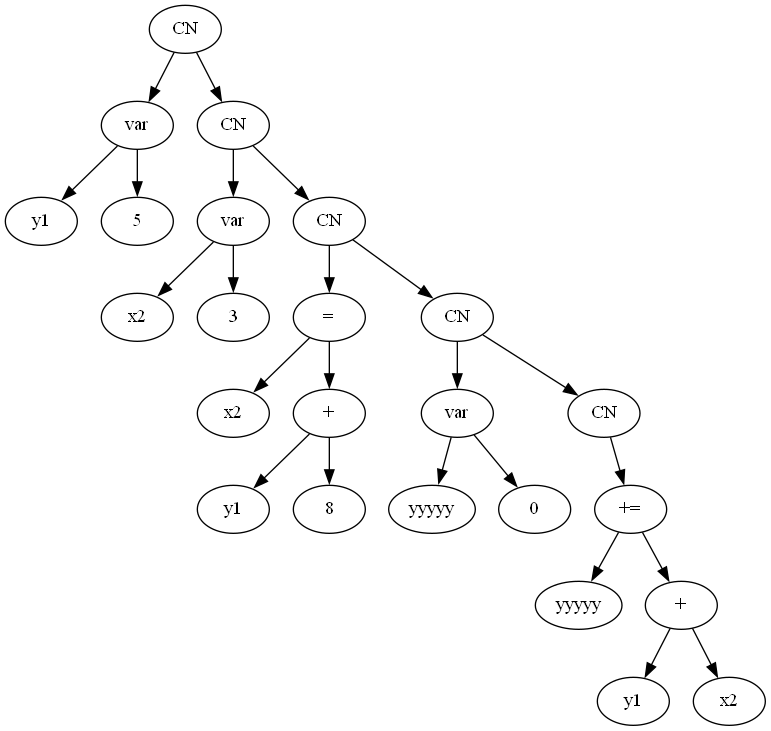
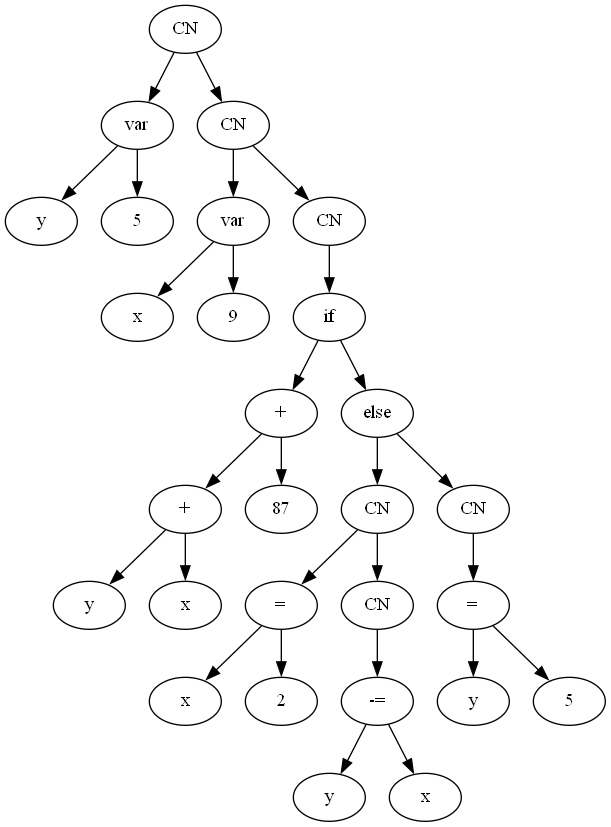
add condition in grammar

diff --git a/src/back_end.cpp b/src/back_end.cpp
@@ -134,12 +134,11 @@ Node *get_grammar(Tokenizer *tokens) {
 
     Node *node = get_type(tokens);
 
-    // assert(tokens->size == tokens->capacity);
+    assert(tokens->size == tokens->capacity);
 
     return node;
 }
 
-// Node *get_connect(Tokenizer *to)
 Node *get_type(Tokenizer *tokens) {
     
     Node *node = NULL;
@@ -151,12 +150,14 @@ Node *get_type(Tokenizer *tokens) {
     } else if (TOKEN_TYPE(TP_OPERATOR) && TOKEN_OP(OP_VAR)) {
         node_l = ger_var_declaration(tokens);
                 // декларация переменных 
-    } 
-
-    for (int i = tokens->size; i < tokens->capacity; i++) {
-        printf("%d [\"%s\"] {%d} ", tokens->array[i].type, tokens->array[i].elem, tokens->array[i].oper);
+    } else if (TOKEN_TYPE(TP_OPERATOR) && TOKEN_OP(OP_IF)) {
+        node_l = get_condition(tokens);
     }
-    printf("\n");
+
+    // for (int i = tokens->size; i < tokens->capacity; i++) {
+    //     printf("%d [\"%s\"] {%d} ", tokens->array[i].type, tokens->array[i].elem, tokens->array[i].oper);
+    // }
+    // printf("\n");
 
     // node_l = create_node(TP_OPERATOR, OP_CONNECT, node_l, node);
 
@@ -168,6 +169,73 @@ Node *get_type(Tokenizer *tokens) {
 
     return node_l;
 
+}
+
+Node *get_condition(Tokenizer *tokens) {
+
+    Node *node = NULL;
+    Node *node_l = NULL;
+    Node *node_r = NULL;
+
+    Node *node_l_body = NULL;
+    Node *node_r_body = NULL;
+
+    if (TOKEN_TYPE(TP_OPERATOR) && TOKEN_OP(OP_IF)) {
+
+        // for (int i = tokens->size; i < tokens->capacity; i++) {
+        //     printf("%d [\"%s\"] {%d} ", tokens->array[i].type, tokens->array[i].elem, tokens->array[i].oper);
+        // }
+        // printf("\n");
+
+        tokens->size++;
+        assert(tokens->array[tokens->size++].oper == OP_LEFT_BRACKET && "sintax error: you forgot left bracket in oper IF");
+        node_l = get_add_sub(tokens);
+
+        assert(tokens->array[tokens->size].oper == OP_RIGHT_BRACKET && "sintax error: you forgot right bracket in oper IF");
+        tokens->size++;
+
+        node_l_body = get_body(tokens);
+        // printf("\n after_body\n");
+
+        // for (int i = tokens->size; i < tokens->capacity; i++) {
+        //     printf("%d [\"%s\"] {%d} ", tokens->array[i].type, tokens->array[i].elem, tokens->array[i].oper);
+        // }
+        // printf("\n");
+
+        if (TOKEN_TYPE(TP_OPERATOR) && TOKEN_OP(OP_ELSE)) {
+            tokens->size++;
+            node_r_body = get_body(tokens);
+        }
+
+        if (node_r_body) {
+            node_r = create_node(TP_OPERATOR, OP_ELSE, node_l_body, node_r_body);
+            node_l = create_node(TP_OPERATOR, OP_IF, node_l, node_r);
+        } else {
+            node_l = create_node(TP_OPERATOR, OP_IF, node_l, node_l_body);
+        }
+
+
+        node = CN(node_l, get_type(tokens));
+
+    }
+
+
+    return node;
+}
+Node *get_body(Tokenizer *tokens) {
+    Node *node = NULL;
+
+    if (TOKEN_TYPE(TP_OPERATOR) && TOKEN_OP(OP_LEFT_FIGURE_BRACKET)) {
+
+        tokens->size++;
+        node = get_type(tokens);
+
+        assert(tokens->array[tokens->size].oper == OP_RIGHT_FIGURE_BRACKET && "sintax erorr: you forgot } in body");
+        tokens->size++;
+
+    }
+
+    return node;
 }
 
 Node *ger_var_declaration(Tokenizer *tokens) {

diff --git a/include/DSL.hpp b/include/DSL.hpp
@@ -20,7 +20,9 @@
 #define DEG(node_l, node_r)   create_node(TP_OPERATOR, OP_DEG, node_l, node_r)
 
 #define LN(node)              create_node(TP_OPERATOR, OP_LN, NULL, node)
+
 #define COS(node)             create_node(TP_OPERATOR, OP_COS, NULL, node)
+
 #define SIN(node)             create_node(TP_OPERATOR, OP_SIN, NULL, node)
 
 

diff --git a/include/back_end.hpp b/include/back_end.hpp
@@ -66,6 +66,10 @@ Node *get_grammar(Tokenizer *tokens);
 
 Node *get_type(Tokenizer *tokens);
 
+Node *get_condition(Tokenizer *tokens);
+
+Node *get_body(Tokenizer *tokens);
+
 Node *ger_var_declaration(Tokenizer *tokens);
 
 Node *get_assignment(Tokenizer *tokens);

diff --git a/config_oper.hpp b/config_oper.hpp
@@ -31,6 +31,14 @@ DEF_OPER(OP_RIGHT_BRACKET, 14, ")", 1)
 
 DEF_OPER(OP_END_LINE, 15, ";", 1)
 
+DEF_OPER(OP_IF, 16, "if", 2)
+
+DEF_OPER(OP_ELSE, 17, "else", 4)
+
+DEF_OPER(OP_LEFT_FIGURE_BRACKET, 18, "{", 1)
+
+DEF_OPER(OP_RIGHT_FIGURE_BRACKET, 19, "}", 1)
+
 
 
 
